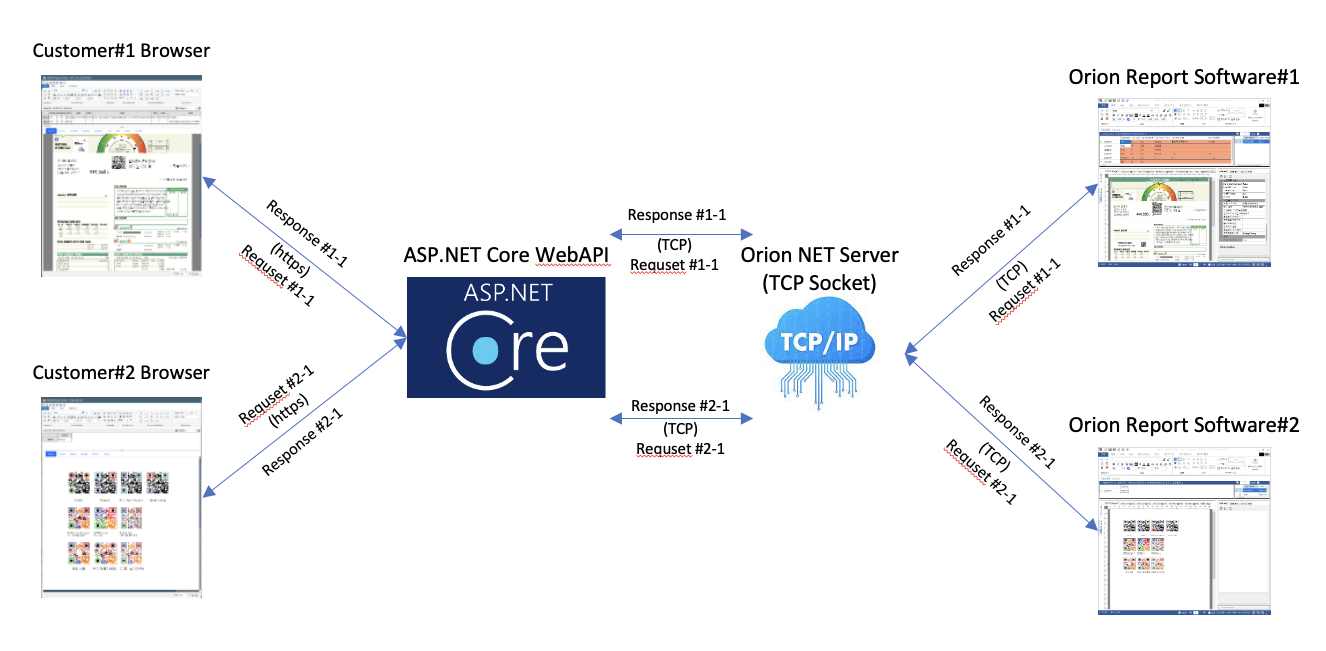
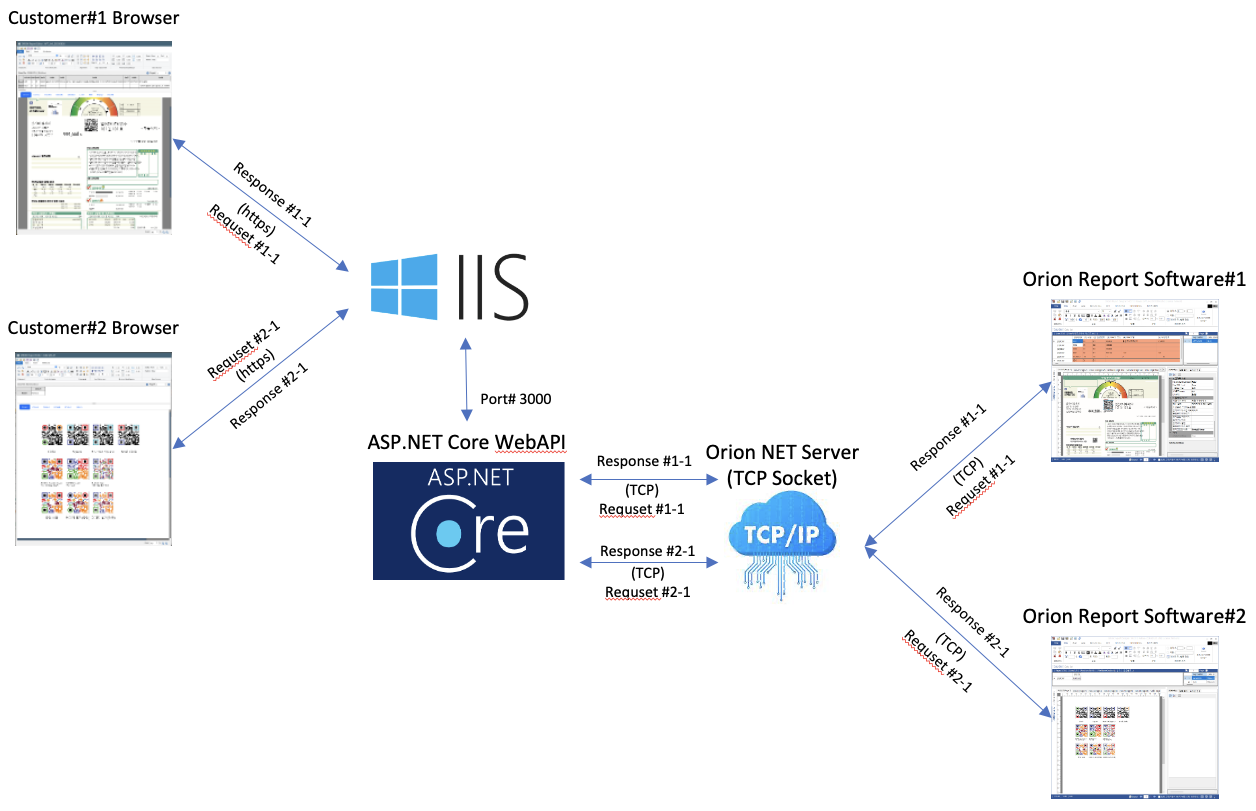
20240316 1614

diff --git a/pages/webdev/web_websocket_01.md b/pages/webdev/web_websocket_01.md
@@ -25,7 +25,7 @@ In March 2024, since I got the first order of Web Editor module, I'm integrating
 
 *****
 
-- Orion Web Editor with WebSocket 
+- Orion Web Editor with Kestrel and WebSocket 
     ![Orion Web Editor with WebSocket](WebEdit_WebSocket.png)
 
 ****
